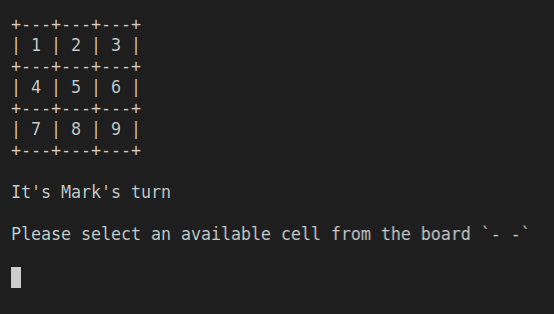
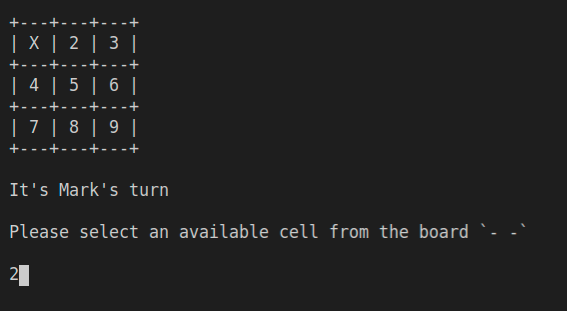
Update README.md with visual walkthrough of how the game tic tac toe works

diff --git a/bin/main.rb b/bin/main.rb
@@ -76,21 +76,22 @@ end
 
 def valid_move?(board, cell, token_array)
   loop do
-    if cell < 1 || cell > 9
+    num = cell.to_i
+    if num < 1 || num > 9
       clear_lines(3)
-      puts 'Invalid move. Please enter a number from 1-9'
+      puts "Invalid move. Please enter a number from 1-9. #{cell} is not a valid number"
       puts
-      cell = user_input.to_i
-    elsif token_array.include?(board.track(cell))
+      cell = user_input
+    elsif token_array.include?(board.track(num))
       clear_lines(3)
-      puts 'Invalid move. Position already played. Please select another number'
+      puts "Invalid move. Position #{cell} already played. Please select another number"
       puts
-      cell = user_input.to_i
+      cell = user_input
     else
       break
     end
   end
-  cell
+  cell.to_i
 end
 
 def take_turns(board, player1, player2, token_array)
@@ -103,7 +104,7 @@ def take_turns(board, player1, player2, token_array)
     puts
     puts 'Please select an available cell from the board `- -`'
     puts
-    cell = user_input.to_i
+    cell = user_input
     cell = valid_move?(board, cell, token_array)
     board.set(cell, player.token)
 
@@ -126,10 +127,11 @@ def replay?
 
   loop do
     command = user_input.downcase
-    if command == 'x'
+    case command
+    when 'x'
       clear_terminal
       exit
-    elsif command == 'y'
+    when 'y'
       clear_terminal
       play_game
     else

diff --git a/README.md b/README.md
@@ -3,10 +3,12 @@ A tic tac toe game implemented using OOP best practices and a DRY approach in Ru
 
 ![](https://img.shields.io/badge/Microverse-blueviolet)
 
+## About
+Tic-tac-toe, noughts and crosses, or Xs and Os/“X’y O’sies”, is a paper-and-pencil game for two players, X and O, who take turns marking the spaces in a 3×3 grid. The player who succeeds in placing three of their marks in a diagonal, horizontal, or vertical row is the winner. [Wikipedia](https://en.wikipedia.org/wiki/Tic-tac-toe#:~:text=Tic%2Dtac%2Dtoe%20)
+
 
 ## Built With
 - Ruby
-- No frameworks
 
 ### Prerequisites
 - A computer with ruby installed.
@@ -19,7 +21,7 @@ rubocop --color
 ```
 
 ### Usage
-- git clone this [repo](https://github.com/KabohaJeanMark/tic-tac-toe/issues) to your local machine and navigate (cd ) to the top directory containing the main.rb file
+- git clone this [repo](https://github.com/KabohaJeanMark/tic-tac-toe/) to your local machine and navigate (cd ) to the top directory containing the main.rb file
 - run the following command
 ```
 bin/main.rb
@@ -28,9 +30,10 @@ Welcome runs on terminal to get player names and designate tokens
 
 ![welcome](assets/welcome-2.png)
 
-Choose a valid number from 1 to 9 (asking player 1)
+Choose a valid number from 1 to 9 (asking player 1). For example player 1 selects 1 and it turns into an X. See next image step how 1 is X.
 
-![valid](assets/valid_move.png)
+![valid](assets/p1-select-1-x.png)
+
 
 Next player's turn (player 2)
 
@@ -38,15 +41,28 @@ Next player's turn (player 2)
 
 What happens if an invalid number is chosen?
 
-![invalid](assets/invalid_move.png)
+If a person selects a wrong input such as 11, 12 or a string like "cw1" the following message returns.
 
-TIE
+![invalid](assets/invalid-not-valid-number.png)
 
-![invalid](assets/milestone2-tie.png)
+If a person selects a cell which has already been used to place in X or O, for example, 1, the following message is displayed.
+
+![invalid](assets/invalid-already.png)
 
 WIN
 
-![invalid](assets/milestone2-win.png)
+![invalid](assets/milestone3_player_win.png)
+
+TIE
+
+![invalid](assets/milestone_3-tie.png)
+
+GAME OVER
+
+![invalid](assets/milestone3_player_win.png)
+
+When the game has ended a person can either choose to continue by pressing 'y' on their keyboard or opt out by placing 'x'.
+Whether you use a lowercase or uppercase 'x' or 'y', it doesn't matter. The commands will be executed.
 
 ## Authors
 
